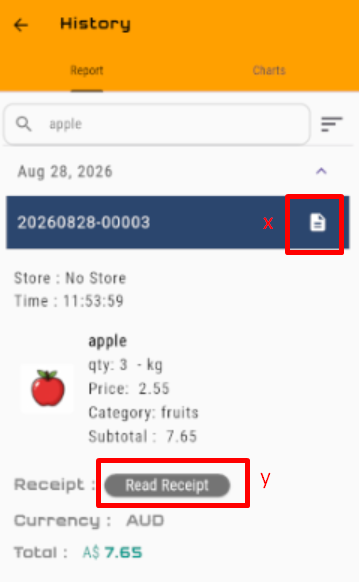
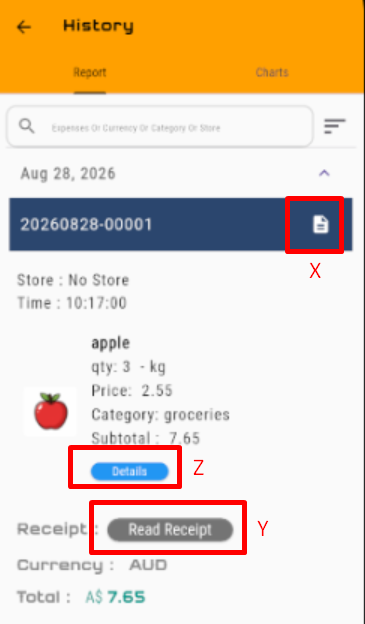
fix-tutorial-upload-control

diff --git a/tutorial/index.html b/tutorial/index.html
@@ -72,7 +72,7 @@
 <h2>Quick Start</h2>
 <p>
     <h5><b>Introduction</b></h5>
-    Please tab on <b>Transaction</b> to create your first transaction<br/>
+    Please tab on <b>Transaction</b> to create your first transaction<br/><br/>
     <div class="text-center"><img src="image/shop/add_shop.png"></div><br/>
 
     Afterward you will see form like this : <br/><br/>
@@ -261,6 +261,11 @@
             <div>
                 <b>Y:</b> The <b>Receipt Button</b> to shows uploaded receipt<br/><br/>
                 <img src="image/history/history_2b2.png">
+            </div>
+            <br/><br/>
+            <div>
+                <b>Z:</b> The <b>Details Button</b> to shows detail of expense<br/><br/>
+                <img src="image/history/history_2d.png">
             </div>
         </div>
         <br/>
